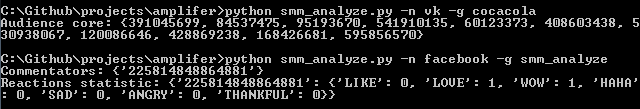
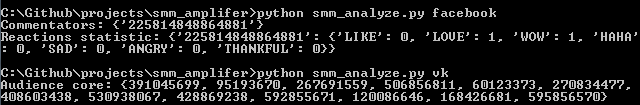
Added a group name for each social network

Changed region(s): [[0.0, 0.0286, 1.0, 0.9714], [0.8125, 0.2857, 0.9062, 0.4], [0.9375, 0.2857, 1.0, 0.4]]

diff --git a/smm_analyze.py b/smm_analyze.py
@@ -22,12 +22,14 @@ VK_VERSION = 5.107
 def create_parser():
     parser = configargparse.ArgParser(default_config_files=['config.ini'])
     parser.add('-c', '--config_file', is_config_file=True, help='Путь к файлу конфигурации')
-    parser.add('--group_name', required=True, help='Название группы', type=str)
+    parser.add('--facebook_group_name', required=True, help='Название группы Facebook', type=str)
     parser.add('--facebook_days_count', required=True, help='Количество дней для анализа Facebook', type=int)
     parser.add('--facebook_months_count', required=True, help='Количество месяцев для анализа Facebook', type=int)
+    parser.add('--instagram_group_name', required=True, help='Название группы Instagram', type=str)
     parser.add('--instagram_posts_count', required=True, help='Количество постов Instagram', type=int)
     parser.add('--instagram_days_count', required=True, help='Количество дней для анализа Instagram', type=int)
     parser.add('--instagram_months_count', required=True, help='Количество месяцев для анализа Instagram', type=int)
+    parser.add('--vk_group_name', required=True, help='Название группы VK', type=str)
     parser.add('--vk_days_count', required=True, help='Количество дней для анализа VK', type=int)
     parser.add('--vk_months_count', required=True, help='Количество месяцев для анализа VK', type=int)
     subparsers = parser.add_subparsers()
@@ -49,7 +51,7 @@ def run_facebook_analyze(args, authentication_summary):
         args.facebook_days_count,
         args.facebook_months_count,
         FACEBOOK_REACTIONS,
-        args.group_name,
+        args.facebook_group_name,
         )
     print('Commentators:', facebook_commentators_ids)
     print('Reactions statistic:', facebook_reactions_statistic)
@@ -64,7 +66,7 @@ def run_instagram_analyze(args, authentication_summary):
         args.instagram_posts_count,
         args.instagram_days_count,
         args.instagram_months_count,
-        args.group_name,
+        args.instagram_group_name,
         )
     print('Comments Top:', instagram_comments_top)
     print('Posts Top:', instagram_posts_top)
@@ -77,7 +79,7 @@ def run_vk_analyze(args, authentication_summary):
         VK_VERSION,
         args.vk_days_count,
         args.vk_months_count,
-        args.group_name,
+        args.vk_group_name,
         )
     print('Audience core:', vk_audience_core)
 
@@ -99,7 +101,7 @@ def main():
         'instagram_password':instagram_password,
         'vk_access_token':vk_access_token,
     }
-    
+
     try:
         args.func(args, authentication_summary)
     except:

diff --git a/scripts/instagram.py b/scripts/instagram.py
@@ -34,14 +34,12 @@ def get_top_commentators(users_ids):
 
 
 def fetch_instagram_analyze(login, password, posts_count, days_count, months_count, group_name):
-
     bot = Bot()
     bot.login(username=login, password=password)
-
     group_id = bot.get_user_id_from_username(group_name)
     last_posts = get_last_posts(
         bot,
-        group_name,
+        group_id,
         posts_count,
         )
     start_date = calculate_start_date(days_count, months_count)
